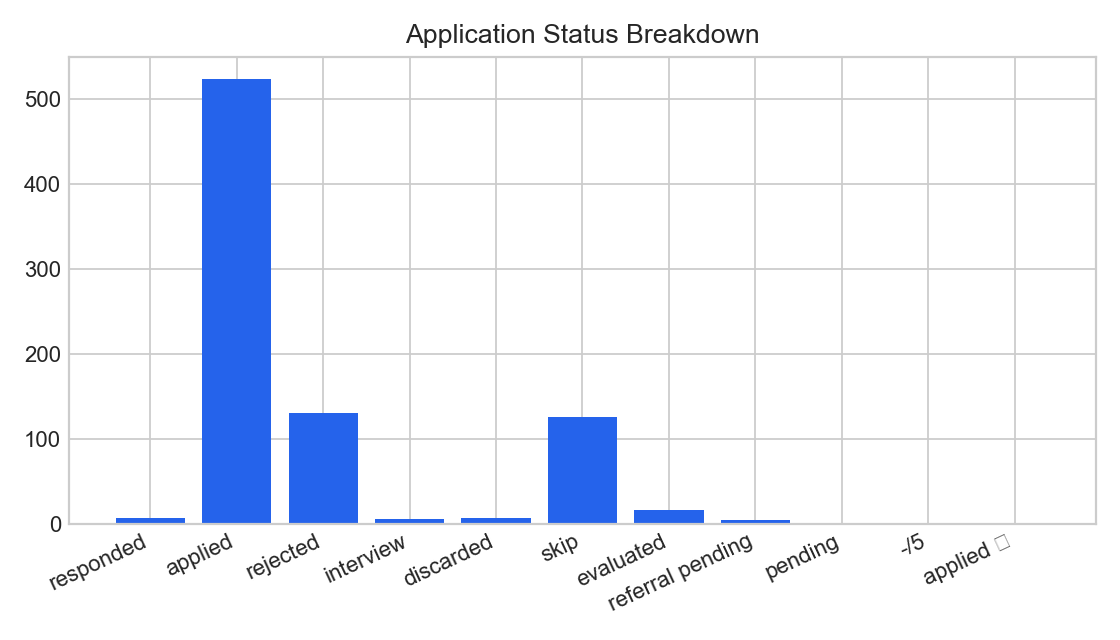
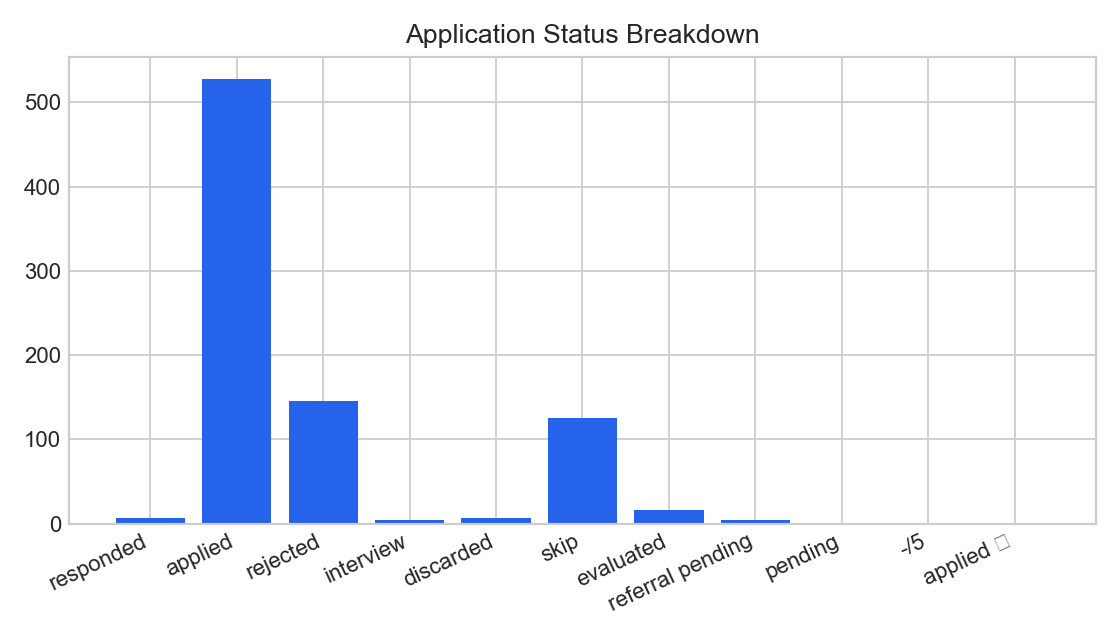
Update job market analytics: 989 merged roles
Backlog catch-up since last sync (971 roles, 08-30): adds Distyl AI (#697),
360 (#696 note carried), Amgen, IXL, Legion Health, Column, Candid Health,
Roblox APM, Databricks APM, Vermeer, Handshake AI, Canvas Medical, Terex GLDP,
Henry Ford Health (#698-709). Also synced 13 status corrections to
Rejected per career.xlsx cross-check (Gas South, Turner & Townsend,
Univ. of Arizona, Garmin, BeaconFire, JBS, Ingram Micro, NYCM, Waymark,
New York Life, VIZIO/Walmart, Robinhood, Gartner Associate Data Scientist).

diff --git a/data/daily_summary.md b/data/daily_summary.md
@@ -1,6 +1,6 @@
 # Daily Job Search Summary
 
-_Last refreshed: 2026-08-31T04:16:50-07:00_
+_Last refreshed: 2026-09-05T02:18:12-07:00_
 
 ## Positioning
 
@@ -10,40 +10,40 @@ _Last refreshed: 2026-08-31T04:16:50-07:00_
 
 ## Snapshot
 
-- Tracked roles: 971
-- Active roles: 551
-- Response rate: 1.7%
+- Tracked roles: 989
+- Active roles: 554
+- Response rate: 1.5%
 - LinkedIn outreach sent: 28
 - Pending pipeline items: 155
 - Recommended pipeline items: 36
-- Average evaluated score: 7.16
+- Average evaluated score: 7.09
 
 ## Status Breakdown
 
 - -/5: 1
-- applied: 524
+- applied: 528
 - applied ✅: 1
 - discarded: 7
 - evaluated: 16
-- interview: 5
+- interview: 4
 - pending: 1
 - referral pending: 4
-- rejected: 130
+- rejected: 145
 - responded: 6
 - skip: 125
 
 ## Recent Activity
 
-- 2026-08-30: Mercor | Mercor Research Fellowship — APEX | applied
-- 2026-08-30: Gartner | Associate Data Scientist | applied
-- 2026-08-30: AEP | Data Scientist Associate - Data Scientist Sr. | applied
-- 2026-08-30: University of Rochester | Data Analyst I | applied
-- 2026-08-30: 360 | AI产品专员（文库方向，J12294） | applied
-- 2026-08-30: University of Rochester | Data Analyst I/II (Public Health Sciences, HEEL Lab) | applied
-- 2026-08-30: American Electric Power | Data Scientist Associate - Data Scientist Sr. (banded SG06-08) | applied
-- 2026-08-30: Gartner | Associate Data Scientist (Marketing Technology/GSSO) | applied
-- 2026-08-30: Mercor | Research Fellowship - APEX | applied
-- 2026-08-29: Dexcom | Data Scientist 2 (Product Intelligence) | applied
+- 2026-09-05: Terex (Genie) | [2027] Genie Leadership Development Program (GLDP) | applied
+- 2026-09-05: Handshake AI | Strategic Projects Associate | applied
+- 2026-09-04: Handshake | Strategic Projects Associate | applied
+- 2026-09-04: Canvas Medical | Solutions Consultant | applied
+- 2026-09-04: Terex | 2027 Genie Leadership Development Program | applied
+- 2026-09-04: Henry Ford Health | Associate Data Scientist | applied
+- 2026-09-04: Vermeer Corporation | Data Analyst I - Operations | applied
+- 2026-09-04: Roblox | [2027] Associate Product Manager, Early Career | applied
+- 2026-09-03: Amgen | Data Scientist | applied
+- 2026-09-03: IXL Learning | Associate Product Manager, New Grad | applied
 
 ## Recommended Opportunity Queue
 
@@ -65,13 +65,13 @@ _Last refreshed: 2026-08-31T04:16:50-07:00_
 
 ## Needs Attention
 
-- Microsoft | Applied Scientist: Microsoft AI Development Acceleration Program | 172 days with no response
-- Nvidia | Deep Learning Architect, LLM Inference - New College Grad 2026 | 172 days with no response
-- Google | Software Engineer II, Early Career | 168 days with no response
-- Apple | AIML - Machine Learning Research | 161 days with no response
-- Amazon | Data Engineer II | 159 days with no response
-- Amazon | Software Development Engineer – Amazon Leo (US) | 159 days with no response
-- Amazon | Software Development Engineer - 2026 (US) | 159 days with no response
-- Amazon | 软件开发工程师, (New graduate or Entry-level Engineer, 0-2 Years) | 159 days with no response
-- Esri | Product Test Engineer II - Feature Server | 159 days with no response
-- Esri | Product Engineer II - ArcGIS Enterprise Sharing API | 159 days with no response
+- Microsoft | Applied Scientist: Microsoft AI Development Acceleration Program | 177 days with no response
+- Nvidia | Deep Learning Architect, LLM Inference - New College Grad 2026 | 177 days with no response
+- Google | Software Engineer II, Early Career | 173 days with no response
+- Apple | AIML - Machine Learning Research | 166 days with no response
+- Amazon | Data Engineer II | 164 days with no response
+- Amazon | Software Development Engineer – Amazon Leo (US) | 164 days with no response
+- Amazon | Software Development Engineer - 2026 (US) | 164 days with no response
+- Amazon | 软件开发工程师, (New graduate or Entry-level Engineer, 0-2 Years) | 164 days with no response
+- Esri | Product Test Engineer II - Feature Server | 164 days with no response
+- Esri | Product Engineer II - ArcGIS Enterprise Sharing API | 164 days with no response
